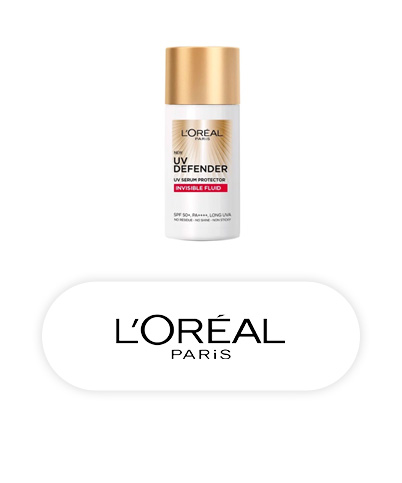
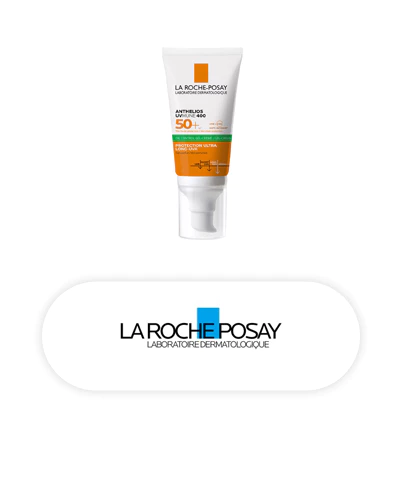
insert mall

Changed region(s): [[0.3881, 0.0932, 0.597, 0.4969], [0.2687, 0.6211, 0.7164, 0.7453]]

diff --git a/assets/js/mall-list-item.js b/assets/js/mall-list-item.js
@@ -1,0 +1,39 @@
+var mallItems = [
+    // Hàng 1
+    { img: "./assets/img/MALL/mall-item1.png",  title: "Giảm đến 50%" },
+    { img: "./assets/img/MALL/mall-item2.png",  title: "Mua 1 tặng 1" },
+    { img: "./assets/img/MALL/mall-item3.png",  title: "Mua 1 tặng 1" },
+    { img: "./assets/img/MALL/mall-item4.png",  title: "Deli siêu sale" },
+
+    // Hàng 2 (sau khi swap -> dùng title của hàng 3)
+    { img: "./assets/img/MALL/mall-item5.png",  title: "Quà mọi đơn" },
+    { img: "./assets/img/MALL/mall-item6.png",  title: "Mua là có quà" },
+    { img: "./assets/img/MALL/mall-item7.png",  title: "Giảm đến 20%" },
+    { img: "./assets/img/MALL/mall-item8.png",  title: "Săn sale siêu hot" },
+
+    // Hàng 3 (sau khi swap -> dùng title của hàng 2)
+    { img: "./assets/img/MALL/mall-item9.png",  title: "Ưu đãi đến 50%" },
+    { img: "./assets/img/MALL/mall-item10.png", title: "Mua 1 tặng 1" },
+    { img: "./assets/img/MALL/mall-item11.png", title: "Mua 1 được 2" },
+    { img: "./assets/img/MALL/mall-item12.png", title: "Mua là có" },
+
+    // Hàng 4
+    { img: "./assets/img/MALL/mall-item13.png", title: "Mua 1 tặng 1" },
+    { img: "./assets/img/MALL/mall-item14.png", title: "Mua 1 được 6" },
+    { img: "./assets/img/MALL/mall-item15.png", title: "Mua là có quà" }
+];
+
+
+var mallWrap = document.querySelector(".mall-wrap__list");
+var mallHTML = "";
+
+mallItems.forEach(function(item) {
+    mallHTML += `
+        <div class="mall-wrap__item">
+            <img src="${item.img}" alt="${item.title}">
+            <p>${item.title}</p>
+        </div>
+    `;
+});
+
+mallWrap.innerHTML = mallHTML;
